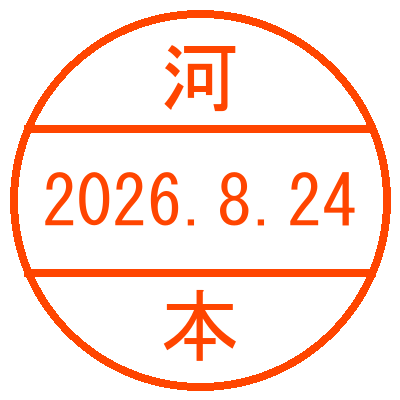
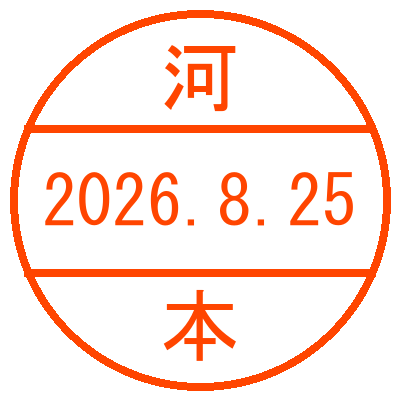
Fix log output order and update batch script for log appending

Changed region(s): [[0.81, 0.42, 0.9, 0.57]]

diff --git a/modules/match_engine.py b/modules/match_engine.py
@@ -27,11 +27,12 @@ def match_po_number(ex_po: str, pdf_list: list) -> dict | None:
 
 def verify_po_items(ex_data: dict, matched_pdf: dict) -> dict:
     """
-    ExcelデータとPDFデータの照合を行い、判定結果（PO, 型式, 数量, 単価）を返す
+    ExcelデータとPDFデータの照合を行い、判定結果（PO, 型式, 数量, 単価）とログを返す
     """
     pdf_text_raw = matched_pdf["text_raw"]
     pdf_text_no_comma = pdf_text_raw.replace(",", "")
     ocr_extracted_text = ""
+    rescue_logs = []  # ★ メッセージ出力用の配列を用意
 
     ex_po = ex_data["po"]
     ex_item = ex_data["item"]
@@ -84,7 +85,7 @@ def verify_po_items(ex_data: dict, matched_pdf: dict) -> dict:
 
     # 第2・3段階: 救済クロップ（18% / 35%）
     if not check_item and ex_item_clean:
-        print("      └ ⚠ 通常抽出で型式が不一致のため、救済モード（ブロック位置解析）を発動します...")
+        rescue_logs.append("      └ ⚠ 通常抽出で型式が不一致のため、救済モード（ブロック位置解析）を発動します...")
 
         # 18%クロップ (MCL用)
         left_text_18 = extract_left_column_text(matched_pdf["path"], ratio=0.18)
@@ -94,7 +95,7 @@ def verify_po_items(ex_data: dict, matched_pdf: dict) -> dict:
 
         if (ex_item_clean in clean_18 or f"K-{ex_item_clean}" in clean_18 or ex_item_clean in clean_18.replace("K-", "") or ex_item_norm in norm_18 or ex_item_alphanumeric in alpha_18):
             check_item = True
-            print("      └ 🌸 救済モード(18%幅)により型式ブロックを正常検出！")
+            rescue_logs.append("      └ 🌸 救済モード(18%幅)により型式ブロックを正常検出！")
         else:
             # 35%クロップ (通常用)
             left_text_35 = extract_left_column_text(matched_pdf["path"], ratio=0.35)
@@ -104,16 +105,16 @@ def verify_po_items(ex_data: dict, matched_pdf: dict) -> dict:
 
             if (ex_item_clean in clean_35 or f"K-{ex_item_clean}" in clean_35 or ex_item_clean in clean_35.replace("K-", "") or ex_item_norm in norm_35 or ex_item_alphanumeric in alpha_35):
                 check_item = True
-                print("      └ 🌸 救済モード(35%幅)により型式ブロックを正常検出！")
+                rescue_logs.append("      └ 🌸 救済モード(35%幅)により型式ブロックを正常検出！")
 
     # 第4段階: 【最終手段】OCRスキャン解析
     if not check_item and ex_item_clean:
-        print("      └ 🔍 最終手段: OCR（画像文字認識）スキャン解析を起動中...")
+        rescue_logs.append("      └ 🔍 最終手段: OCR（画像文字認識）スキャン解析を起動中...")
         is_ocr_ok, ocr_text_res = perform_ocr_rescue(matched_pdf["path"], ex_item_clean)
         ocr_extracted_text = ocr_text_res
         if is_ocr_ok:
             check_item = True
-            print("      └ 🌸 OCRスキャン解析により図面内の型式文字を正常検出！")
+            rescue_logs.append("      └ 🌸 OCRスキャン解析により図面内の型式文字を正常検出！")
 
     # --------------------------------------------------
     # 3. 数量チェック
@@ -126,7 +127,6 @@ def verify_po_items(ex_data: dict, matched_pdf: dict) -> dict:
     if ex_price_clean == "" or ex_item_clean == "57-04-322":
         check_price = True
     else:
-        # ★ PDF全体のテキストからスペース（半角・全角）を取り除いた比較用文字列を作成
         pdf_text_no_space = pdf_text_raw.replace(" ", "").replace(" ", "")
 
         try:
@@ -148,7 +148,7 @@ def verify_po_items(ex_data: dict, matched_pdf: dict) -> dict:
                 any(p in pdf_text_raw for p in patterns) or 
                 any(p in pdf_text_no_comma for p in patterns) or
                 any(p in ocr_extracted_text for p in patterns) or
-                (ex_price_clean in pdf_text_no_space)  # ★ スペース除去テキストとの判定を追加
+                (ex_price_clean in pdf_text_no_space)
             )
 
         except ValueError:
@@ -156,7 +156,7 @@ def verify_po_items(ex_data: dict, matched_pdf: dict) -> dict:
                 (ex_price_clean in pdf_text_raw) or 
                 (ex_price_clean in pdf_text_no_comma) or 
                 (ex_price_clean in ocr_extracted_text) or
-                (ex_price_clean in pdf_text_no_space)  # ★ 例外時もスペース除去で判定
+                (ex_price_clean in pdf_text_no_space)
             )
 
     return {
@@ -164,5 +164,6 @@ def verify_po_items(ex_data: dict, matched_pdf: dict) -> dict:
         "item": check_item,
         "qty": check_qty,
         "price": check_price,
-        "is_all_ok": (check_item and check_qty and check_price)
+        "is_all_ok": (check_item and check_qty and check_price),
+        "rescue_logs": rescue_logs  # ★ 溜めたログメッセージを返却
     }

diff --git a/main_checker.py b/main_checker.py
@@ -69,9 +69,15 @@ def process_folder(folder_path: Path, stamp_img_path: str) -> bool:
                 is_price_exempt = (ex_price_clean == "" or ex_item.strip().replace(" ", "") == "57-04-322")
                 price_log = f"'{ex_price_clean}'" if match_res["price"] else ("免除(OK)" if is_price_exempt else "未検出")
 
+                # 1. 📄 PDF検出結果を先に出力
                 print(f"   📄 PDF検出結果: {matched_pdf['name']}")
                 print(f"      └ [PO: {po_log}] | [型式: {item_log}] | [数量: {qty_log}] | [単価: {price_log}]")
 
+                # 2. ⚠ 救済モードやOCR等の割り込みログがあればここに出力
+                for log_msg in match_res.get("rescue_logs", []):
+                    print(log_msg)
+
+                # 3. 🔍 照合結果を出力
                 results = [
                     f"型式: {'OK' if match_res['item'] else 'NG'}",
                     f"数量: {'OK' if match_res['qty'] else 'NG'}",
